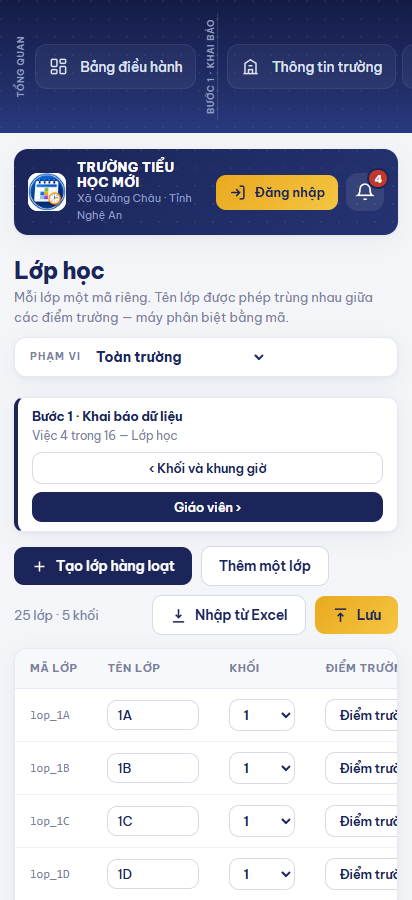
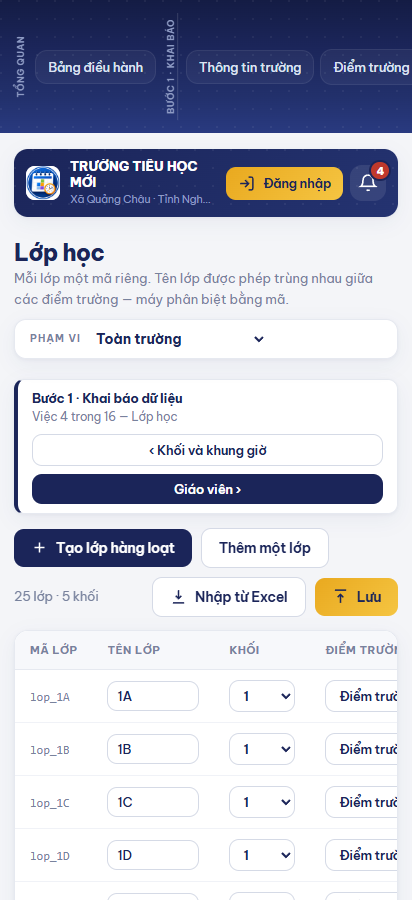
Vá lỗi đăng nhập trên iPhone: đường về thiếu dấu / cuối rơi vào trang 404
Lỗi thật chủ dự án bắt được trên Safari iPhone: đăng nhập Google thành
công nhưng bị ném về schoolrecords.github.io (gốc) và hiện trang 404 của
GitHub Pages.

Nguyên nhân: diaChiDangNhapGoogle() lấy location.pathname nguyên xi. Mở
trang bằng địa chỉ không có dấu / cuối (…github.io/tkb) thì redirect_to
thành "…/tkb" — lệch một ký tự với dòng "…/tkb/" khai trong Redirect URLs
của Supabase, nên Supabase bỏ qua rồi ném về Site URL.

Nay duongVeChuan() tự chuẩn hoá: có tên tệp thì bỏ (…/src/index.html →
…/src/), còn lại luôn thêm dấu / cuối. Hai phép thử canh bốn dạng địa chỉ.

Giao diện điện thoại (theo ảnh chụp iPhone của chủ dự án):
- Dải điều hướng ngang thấp xuống: nút gọn lại, giấu biểu tượng — trên
  dải ngang chữ mới là thứ dẫn đường. Nhãn nhóm BƯỚC vẫn giữ.
- Tên trường dài không còn đẩy nút Đăng nhập xuống dòng: cho co lại và
  cắt bằng dấu ba chấm, tối đa hai dòng.

Kiểm chứng: npm test 225/225, npm run soi 125/125 (+2), chụp lại 16 ảnh
giao diện bằng Chrome thật, không lỗi JS.

diff --git a/src/index.html b/src/index.html
@@ -477,14 +477,23 @@ table.tt tr.het td{border-bottom:2px solid var(--ke-2)}
     font-size:8.5px;letter-spacing:.1em;white-space:nowrap;flex:0 0 auto;
     border-left:1px solid rgba(255,255,255,.14)}
   .nhom:first-of-type{border-left:none}
-  .mi{width:auto;white-space:nowrap;margin:0}
-  .thanh{padding:11px 14px;gap:11px}
-  .thanh-bt{width:38px;height:38px;flex:0 0 38px;font-size:18px;border-radius:10px}
-  .thanh-t{font-size:13px}
-  .thanh-p{font-size:11px}
-  .thanh-phai{gap:8px}
-  .chuong{width:38px;height:38px}
-  #btDangNhapTren{padding:9px 13px;font-size:13px}
+  /* Dải ngang phải THẤP: nó nằm dán đỉnh màn hình, cao thêm một dòng là
+     người dùng mất một dòng nội dung ở mọi màn hình. Nút gọn lại, biểu
+     tượng giấu đi — trên dải ngang chữ mới là thứ dẫn đường. */
+  .mi{width:auto;white-space:nowrap;margin:0;padding:8px 12px;font-size:12.5px;gap:0}
+  .mi svg{display:none}
+  .mi .n{margin-left:7px}
+  .thanh{padding:10px 12px;gap:10px}
+  .thanh-bt{width:34px;height:34px;flex:0 0 34px;font-size:18px;border-radius:9px}
+  /* Tên trường không được đẩy nút Đăng nhập xuống dòng: cho phép co lại và
+     cắt bằng dấu ba chấm. Ảnh chụp trên iPhone cho thấy tiêu đề gãy ba dòng. */
+  .thanh>div:nth-child(2){min-width:0;flex:1 1 auto}
+  .thanh-t{font-size:12.5px;line-height:1.25;overflow:hidden;text-overflow:ellipsis;
+    display:-webkit-box;-webkit-line-clamp:2;-webkit-box-orient:vertical}
+  .thanh-p{font-size:10.5px;white-space:nowrap;overflow:hidden;text-overflow:ellipsis}
+  .thanh-phai{gap:7px}
+  .chuong{width:36px;height:36px}
+  #btDangNhapTren{padding:8px 12px;font-size:12.5px}
   main{padding:16px 14px 50px;min-width:0;max-width:100vw;overflow-x:hidden}
   .tuan{grid-template-columns:1fr}
   .dh-duoi{grid-template-columns:1fr}
@@ -1940,10 +1949,25 @@ async function vaoLaiBangVeNho(){
    đúng trang này kèm vé trong phần #hash của địa chỉ. Không thư viện ngoài,
    không khoá bí mật nào chạm trình duyệt. Điều kiện: dự án Supabase đã bật
    Google provider — các bước bật ghi ở đầu db/ma-moi.sql. */
+/* Đường về sau khi Google xác thực xong. Phải là THƯ MỤC có dấu / cuối,
+   khớp y hệt một dòng trong Redirect URLs của Supabase — sai một ký tự là
+   Supabase bỏ qua rồi ném về Site URL.
+
+   ĐÃ DÍNH THẬT (2/8/2026): mở trang bằng địa chỉ không có dấu / cuối
+   (…github.io/tkb) thì `location.pathname` là `/tkb`, redirect_to thành
+   `…/tkb` — lệch với dòng `…/tkb/` đã khai, Supabase ném về Site URL và
+   người dùng rơi vào trang 404 của GitHub. Nay tự chuẩn hoá: bỏ tên tệp
+   nếu có, còn lại luôn thêm dấu / cuối. */
+function duongVeChuan(loc){
+  let p=String(loc?.pathname||'/');
+  if(/\.html?$/i.test(p)) p=p.replace(/[^/]*$/,'');    /* …/src/index.html → …/src/ */
+  else if(!p.endsWith('/')) p+='/';                    /* …/tkb → …/tkb/ */
+  return String(loc?.origin||'')+p;
+}
 function diaChiDangNhapGoogle(){
   if(!KHO.cauHinh) return '';
   const w=cuaSo(); if(!w) return '';
-  const ve=String(w.location.origin+w.location.pathname);
+  const ve=duongVeChuan(w.location);
   return `${KHO.cauHinh.url}/auth/v1/authorize?provider=google&redirect_to=${encodeURIComponent(ve)}`;
 }
 function dangNhapGoogle(){
